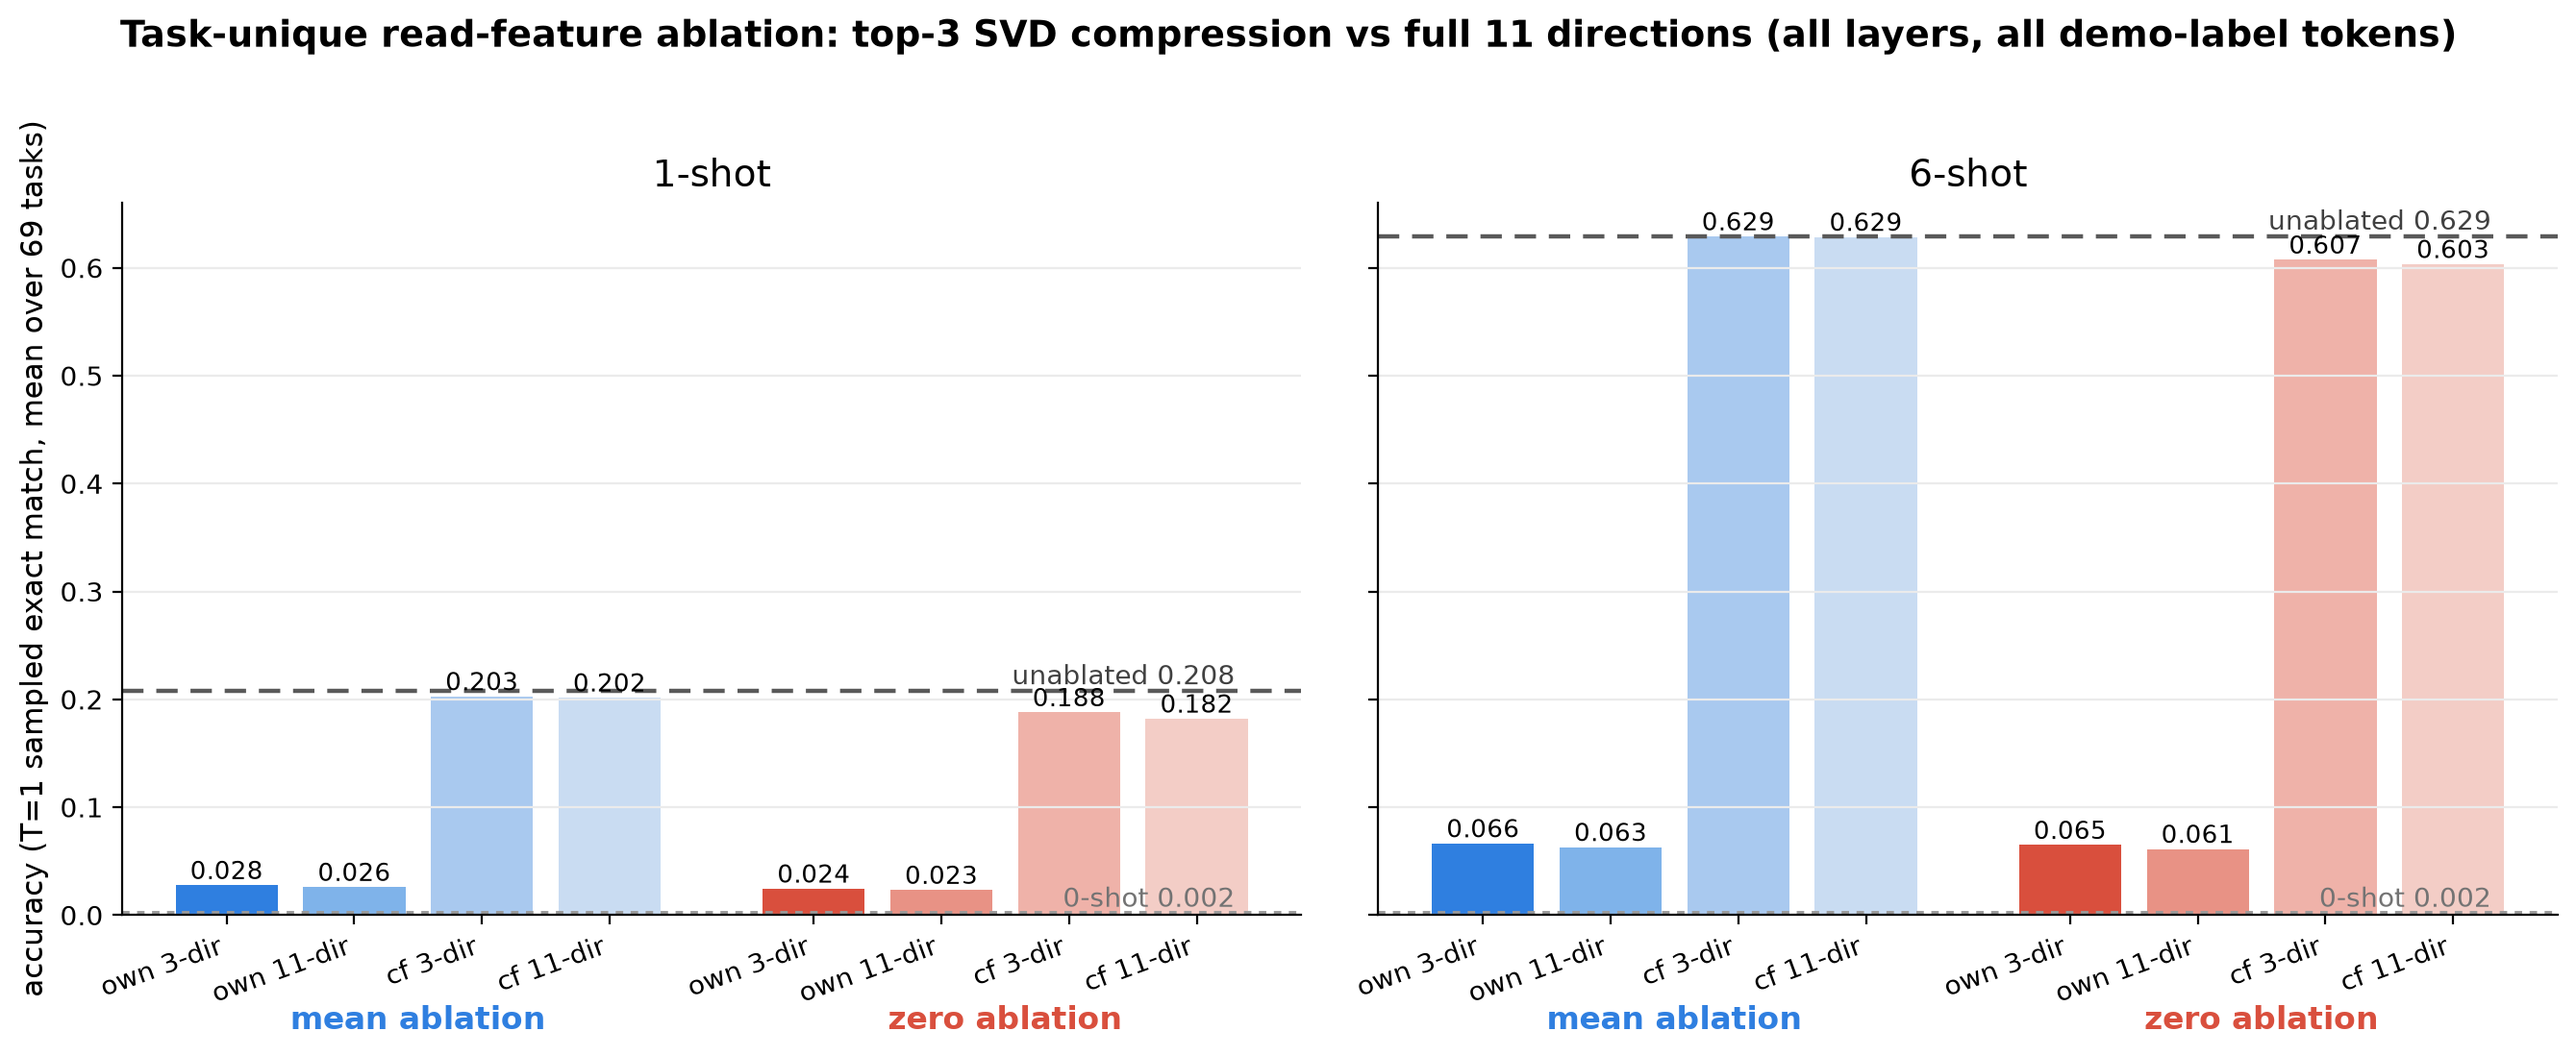
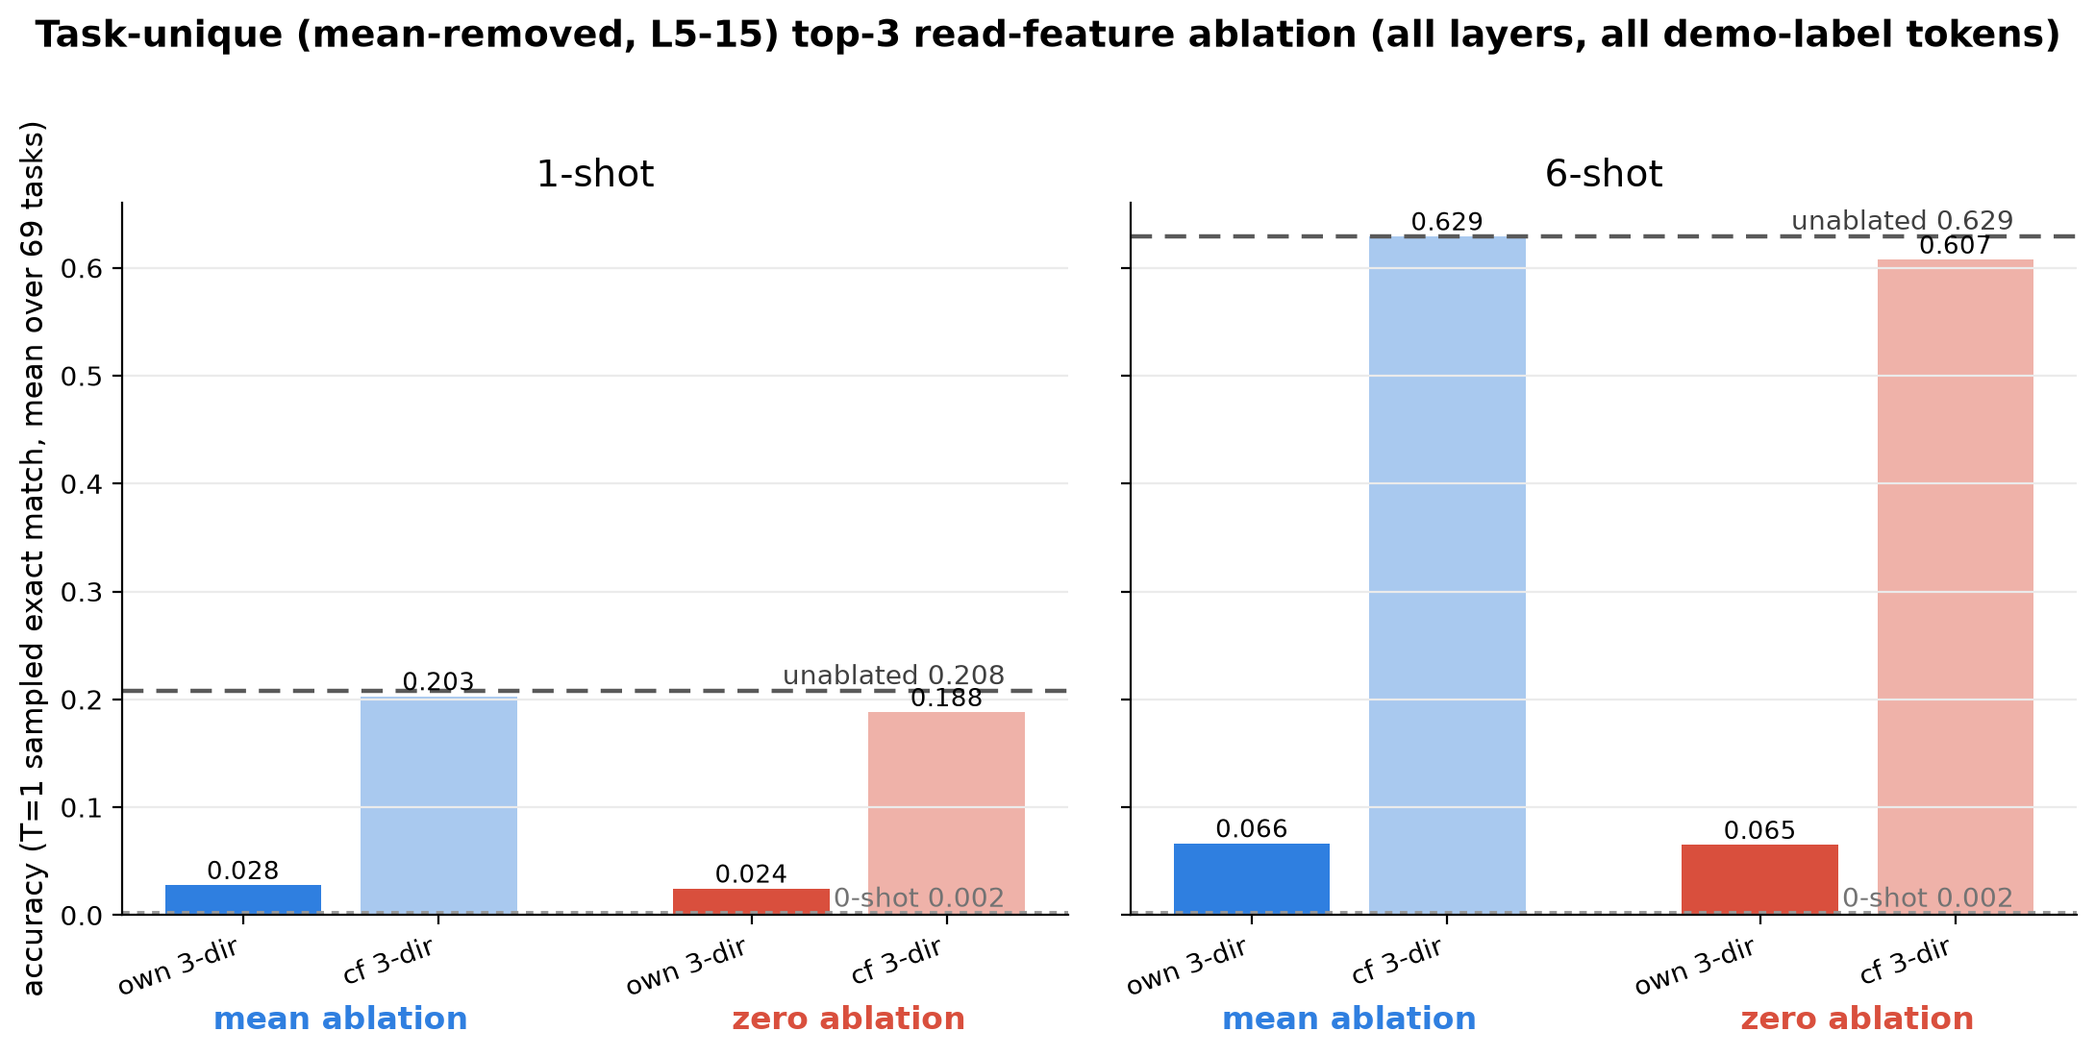
task_unique_top3 figures: 3-dir + baselines only (drop 11-dir comparison bars)

diff --git a/src/eval_scripts/plot_69_taskunique_top3.py b/src/eval_scripts/plot_69_taskunique_top3.py
@@ -70,15 +70,12 @@ def main():
     def mean_of(col):
         return float(np.mean([float(rows[t][col]) for t in tasks]))
 
-    order = ["mean_ablation_mr3", "mean_ablation_mr11",
-             "cf_mean_ablation_mr3", "cf_mean_ablation_mr11",
-             "zero_ablation_mr3", "zero_ablation_mr11",
-             "cf_zero_ablation_mr3", "cf_zero_ablation_mr11"]
-    short = {c: ("cf " if c.startswith("cf_") else "own ")
-             + ("3-dir" if c.endswith("mr3") else "11-dir") for c in order}
-    fig, axes = plt.subplots(1, 2, figsize=(13.5, 5.8), dpi=200, sharey=True)
+    order = ["mean_ablation_mr3", "cf_mean_ablation_mr3",
+             "zero_ablation_mr3", "cf_zero_ablation_mr3"]
+    short = {c: ("cf " if c.startswith("cf_") else "own ") + "3-dir" for c in order}
+    fig, axes = plt.subplots(1, 2, figsize=(11, 5.8), dpi=200, sharey=True)
     for ax, n in zip(axes, (1, 6)):
-        xs = np.array([0, 1, 2, 3, 4.6, 5.6, 6.6, 7.6])
+        xs = np.array([0, 1, 2.6, 3.6])
         vals = [mean_of(f"n{n}_{c}") for c in order]
         ax.bar(xs, vals, color=[COLOR[c] for c in order], width=0.8)
         for x, v in zip(xs, vals):
@@ -86,23 +83,23 @@ def main():
         base, zs = mean_of(f"n{n}_baseline"), mean_of("zero_shot")
         ax.axhline(base, color="0.35", lw=1.6, ls=(0, (5, 3)))
         ax.axhline(zs, color="0.6", lw=1.4, ls=(0, (2, 2)))
-        ax.annotate(f"unablated {base:.3f}", (7.9, base), ha="right", va="bottom",
+        ax.annotate(f"unablated {base:.3f}", (3.9, base), ha="right", va="bottom",
                     fontsize=10, color="0.25")
-        ax.annotate(f"0-shot {zs:.3f}", (7.9, zs), ha="right", va="bottom",
+        ax.annotate(f"0-shot {zs:.3f}", (3.9, zs), ha="right", va="bottom",
                     fontsize=10, color="0.45")
         ax.set_xticks(xs)
         ax.set_xticklabels([short[c] for c in order], fontsize=10, rotation=20, ha="right")
-        ax.text(1.5, -0.16, "mean ablation", transform=ax.get_xaxis_transform(),
+        ax.text(0.5, -0.16, "mean ablation", transform=ax.get_xaxis_transform(),
                 ha="center", fontsize=12, fontweight="bold", color="#2f7fe0")
-        ax.text(6.1, -0.16, "zero ablation", transform=ax.get_xaxis_transform(),
+        ax.text(3.1, -0.16, "zero ablation", transform=ax.get_xaxis_transform(),
                 ha="center", fontsize=12, fontweight="bold", color="#d94f3d")
         ax.set_title(f"{n}-shot", fontsize=14)
         ax.grid(axis="y", color="0.92")
         for s in ("top", "right"):
             ax.spines[s].set_visible(False)
     axes[0].set_ylabel("accuracy (T=1 sampled exact match, mean over 69 tasks)", fontsize=11)
-    fig.suptitle("Task-unique read-feature ablation: top-3 SVD compression vs full 11 "
-                 "directions (all layers, all demo-label tokens)",
+    fig.suptitle("Task-unique (mean-removed, L5-15) top-3 read-feature ablation "
+                 "(all layers, all demo-label tokens)",
                  fontsize=13.5, fontweight="bold")
     fig.tight_layout(rect=[0, 0.02, 1, 0.94])
     fig.savefig(OUT / "aggregate_bars.png", bbox_inches="tight")
